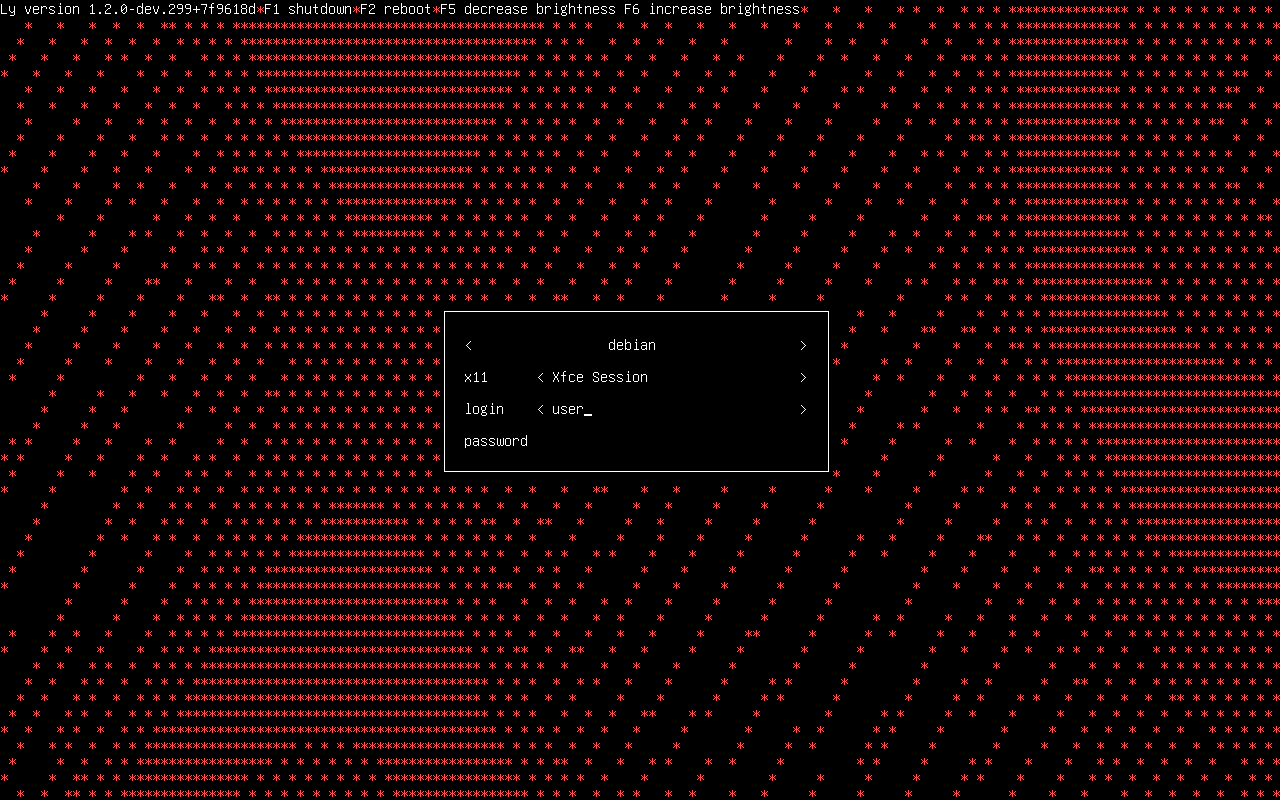
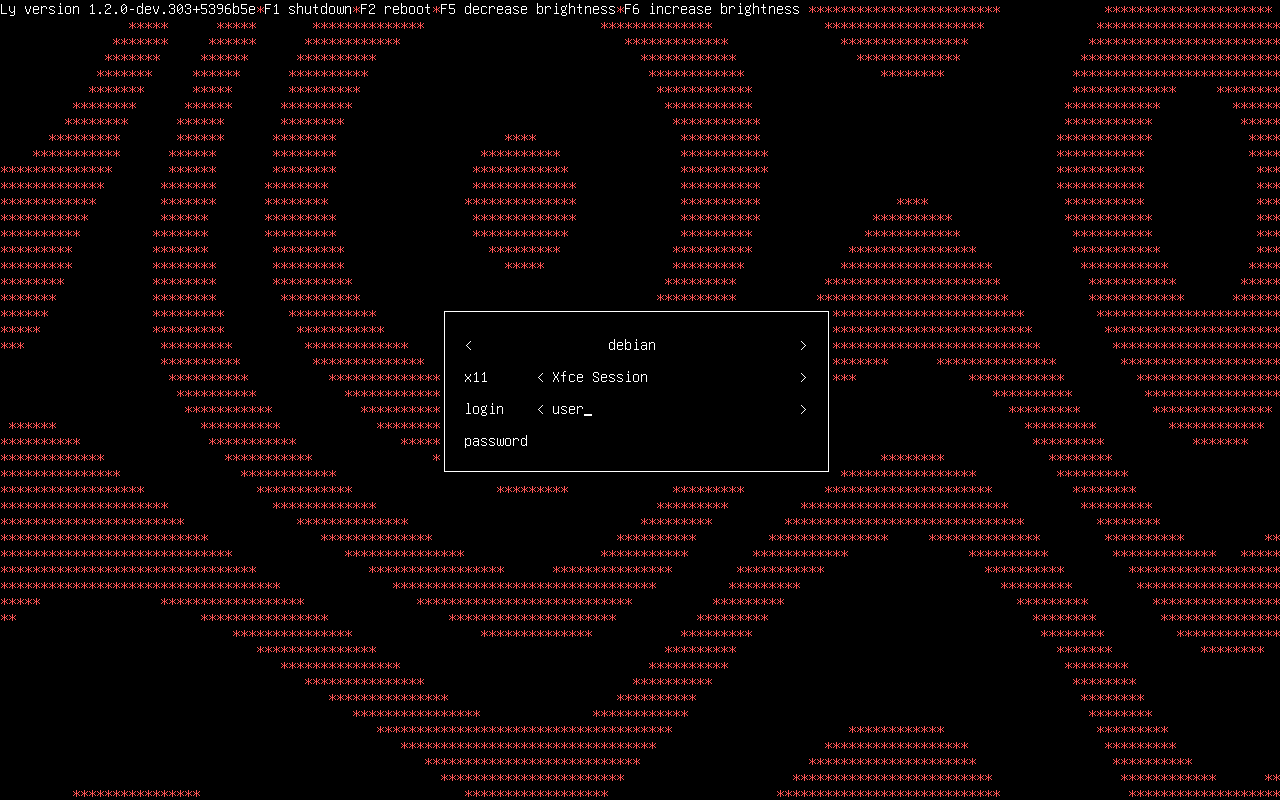
waveforms animation test, second variant for perlin animation

diff --git a/readme.md b/readme.md
@@ -12,6 +12,8 @@ This fork implements a couple of additional animations.
 
 ![Ly perlin screenshot](.github/perlin_screenshot.png "Ly perlin screenshot")
 
+![Ly kiroshi screenshot](.github/kiroshi_screenshot.png "Ly kiroshi screenshot")
+
 ## Dependencies
 
 - Compile-time:
